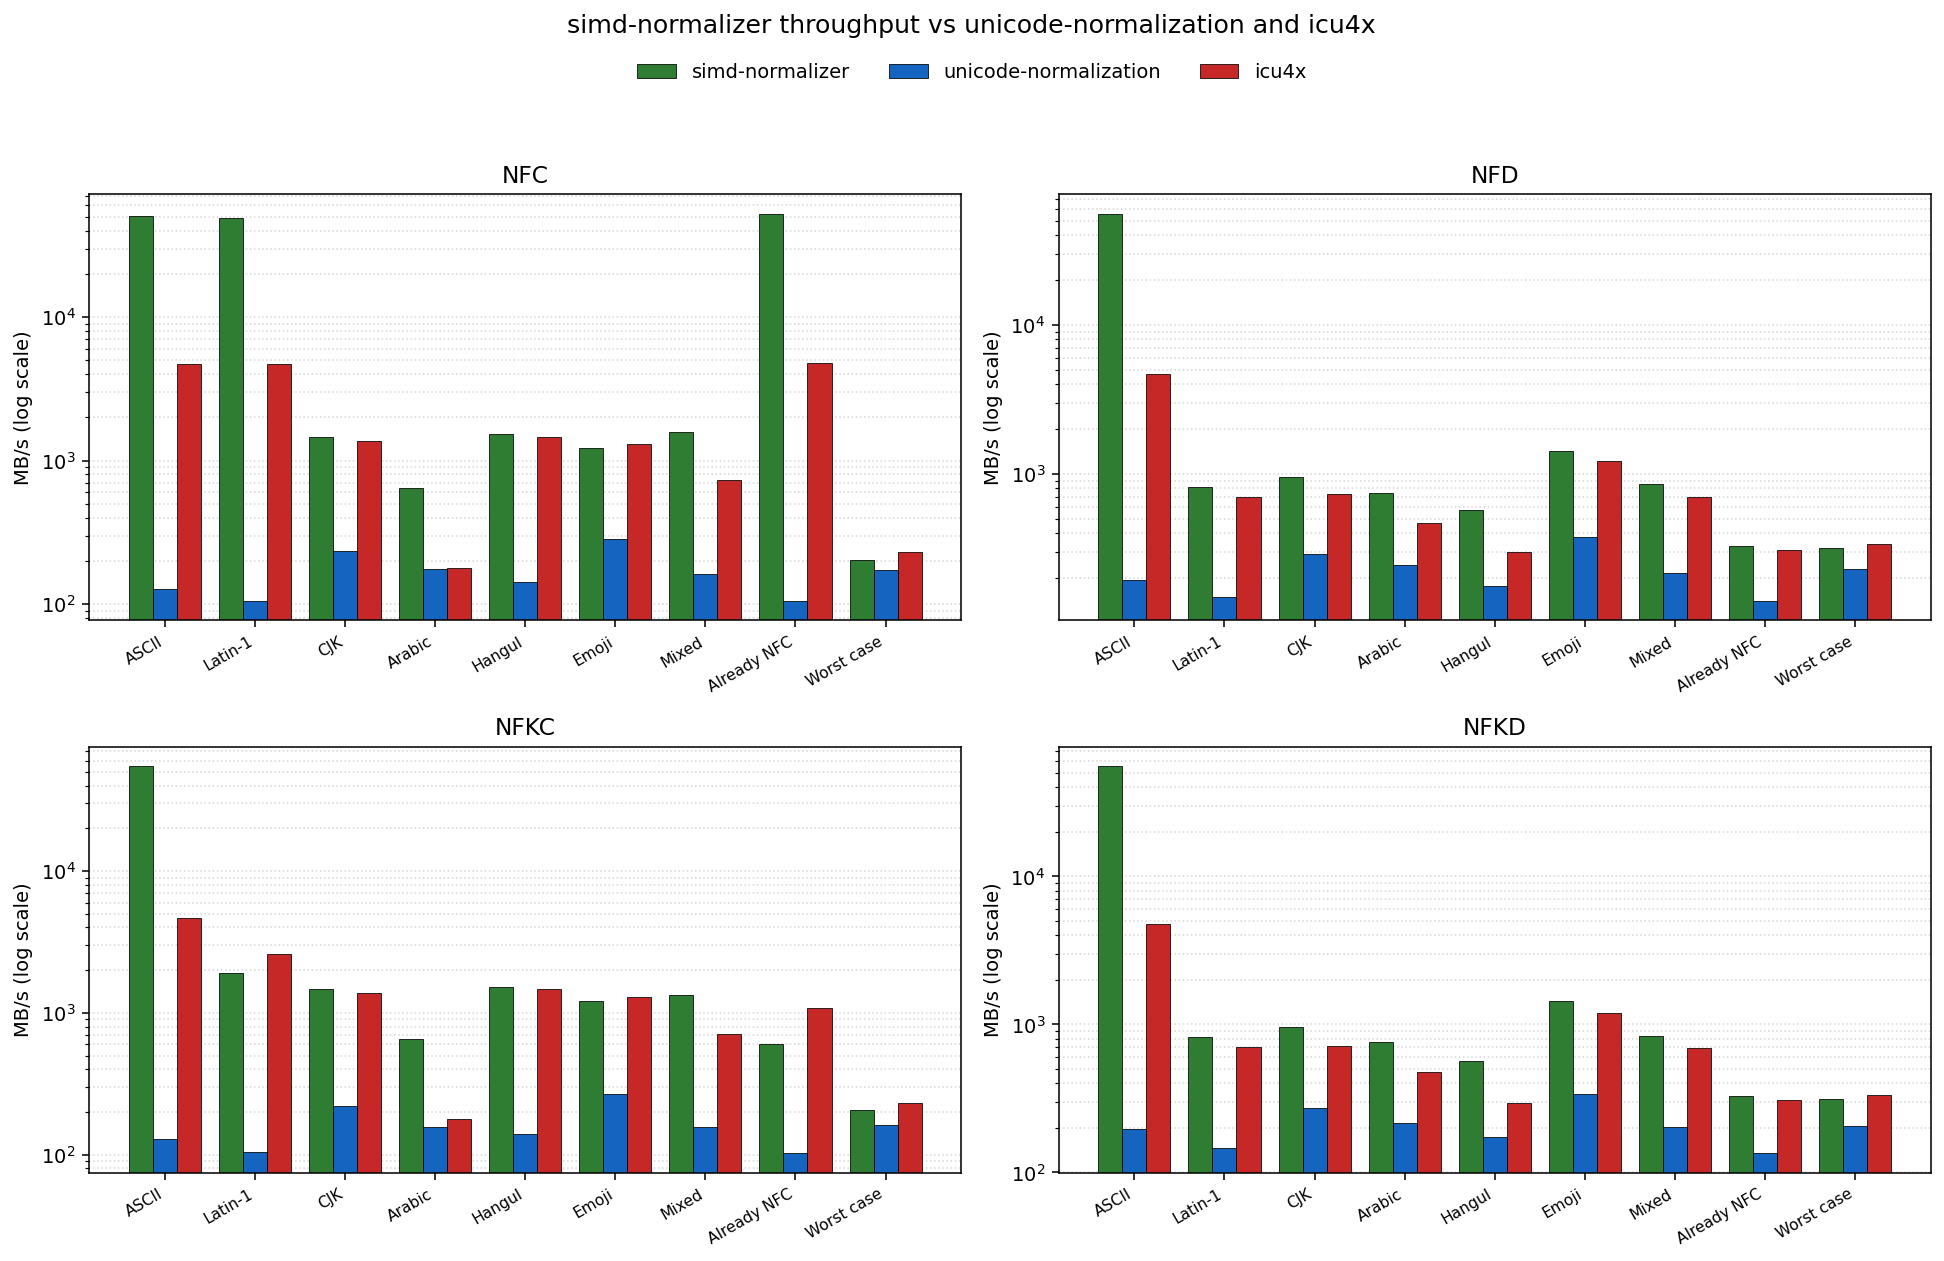
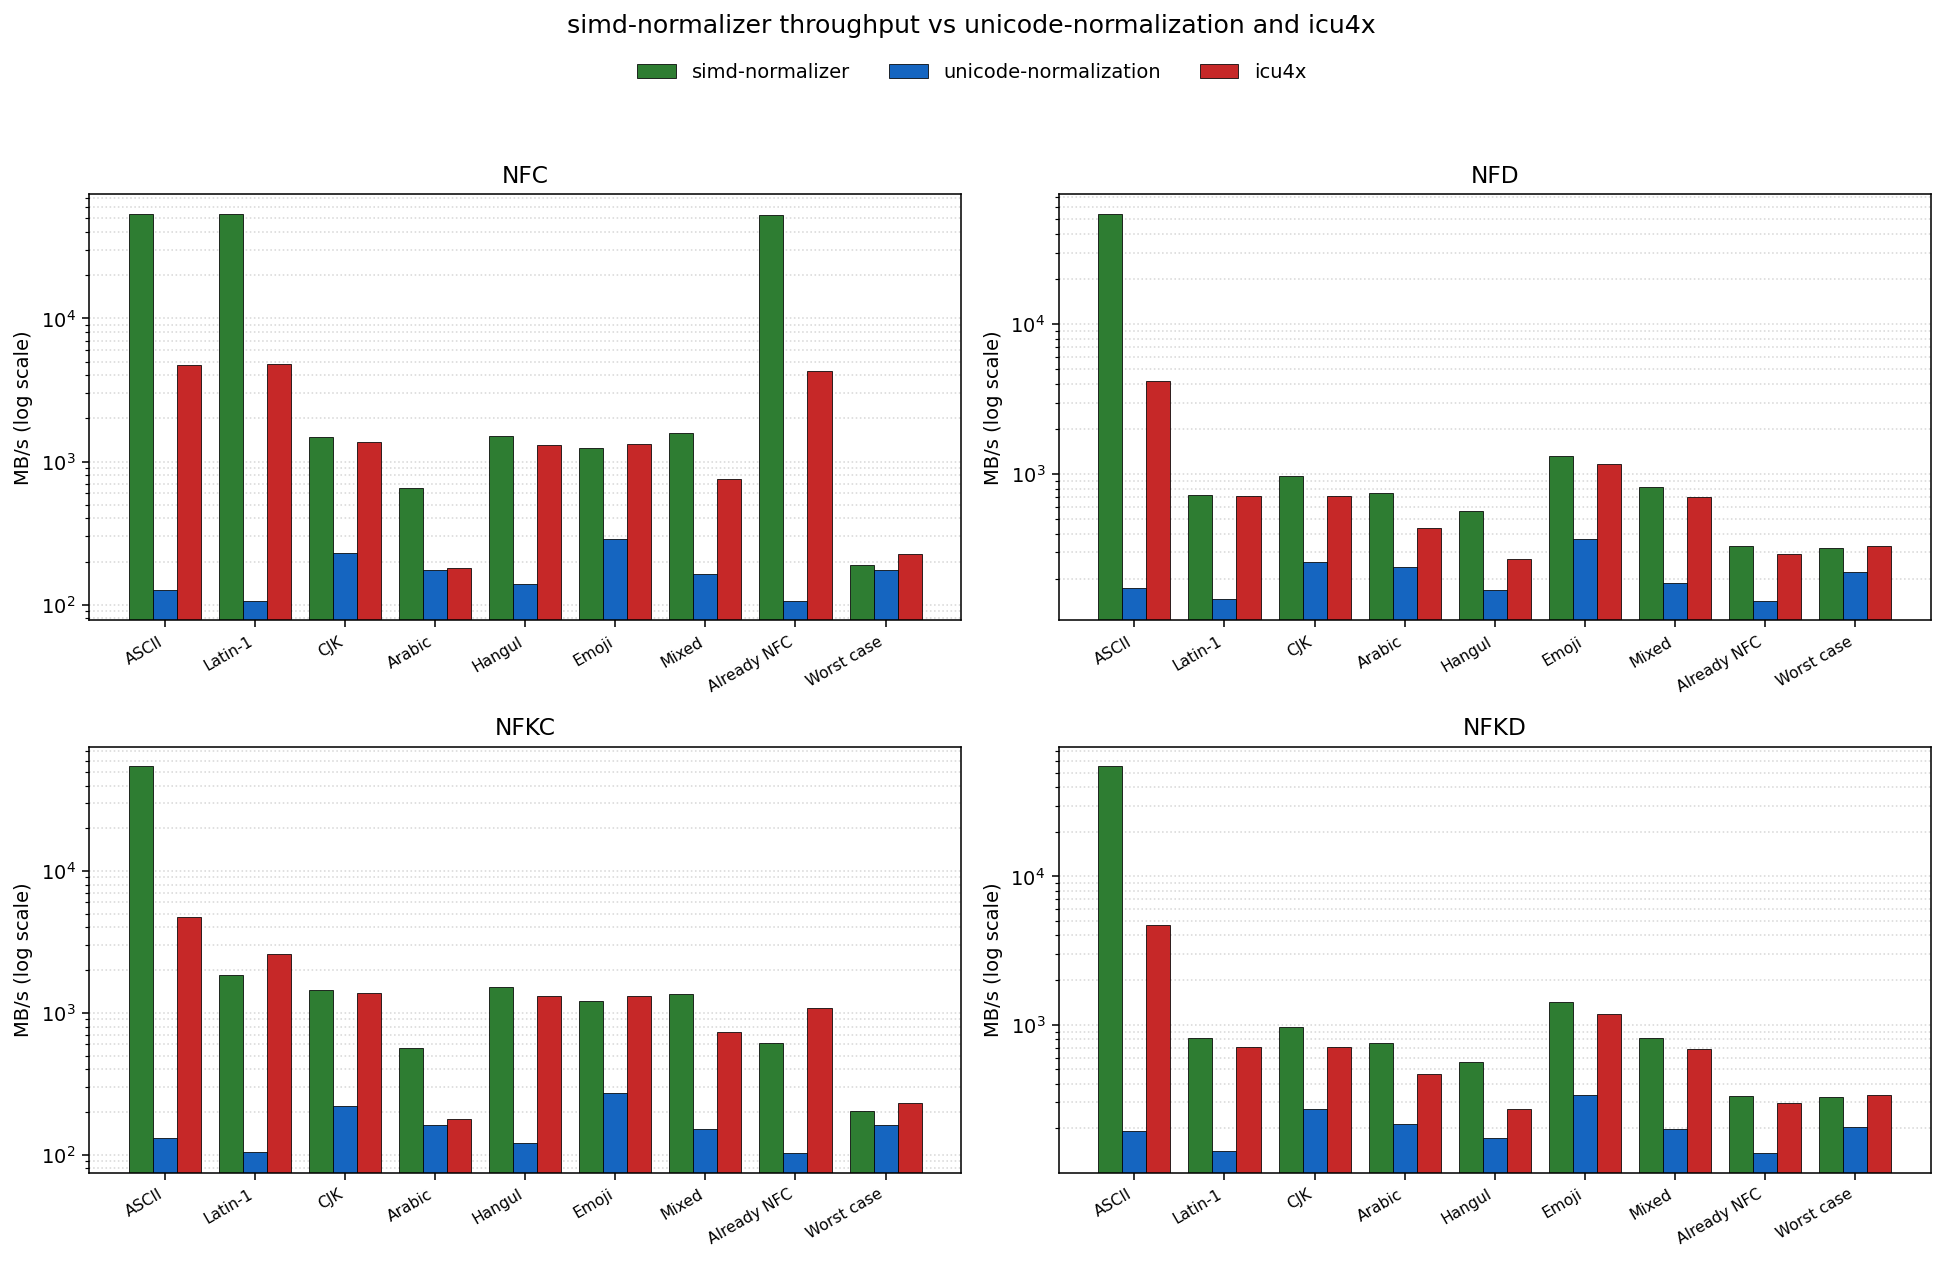
docs: document quick_check_oracle feature + refresh throughput chart
Add the `quick_check_oracle` cargo feature (internal, semver-exempt) to
the feature flags table and a "Quick-check fast path vs oracle" bullet
to the testing section describing the 32K-case differential proptest.
Regenerate media/throughput.png from a fresh cargo bench on current main.

diff --git a/README.md b/README.md
@@ -95,6 +95,7 @@ assert!(matches_normalized("\u{FF21}", "a", &opts));    // Fullwidth A vs a
 |---------|---------|-------------|
 | `std`   | yes     | Enables runtime CPUID dispatch on x86_64 |
 | `alloc` | yes     | Required for `String`/`Cow` return types |
+| `quick_check_oracle` | no | Exposes a pre-classifier oracle slow path for differential testing. Internal only; semver-exempt. |
 
 To use in `no_std`:
 
@@ -123,6 +124,7 @@ The test suite includes 650+ tests across multiple categories:
 
 - **UAX #15 conformance** -- full NormalizationTest.txt with all 20 invariants
 - **Differential fuzzing** -- proptest against `unicode-normalization` and `icu_normalizer` (ICU4X) with thousands of generated inputs per form
+- **Quick-check fast path vs oracle** -- 32K proptest cases per form compare the production quick-check against an in-tree slow-path oracle (enable `--features quick_check_oracle`)
 - **Exhaustive codepoint validation** -- every Unicode scalar value tested for normalization invariants and differential correctness against ICU4X
 - **Multilingual corpus** -- normalization verified on real-world text in 25+ languages (Arabic, Chinese, German, Greek, Hebrew, Hindi, Japanese, Korean, Russian, Thai, Turkish, and more)
 - **SIMD boundary stress** -- multi-byte sequences straddling 64-byte chunk boundaries